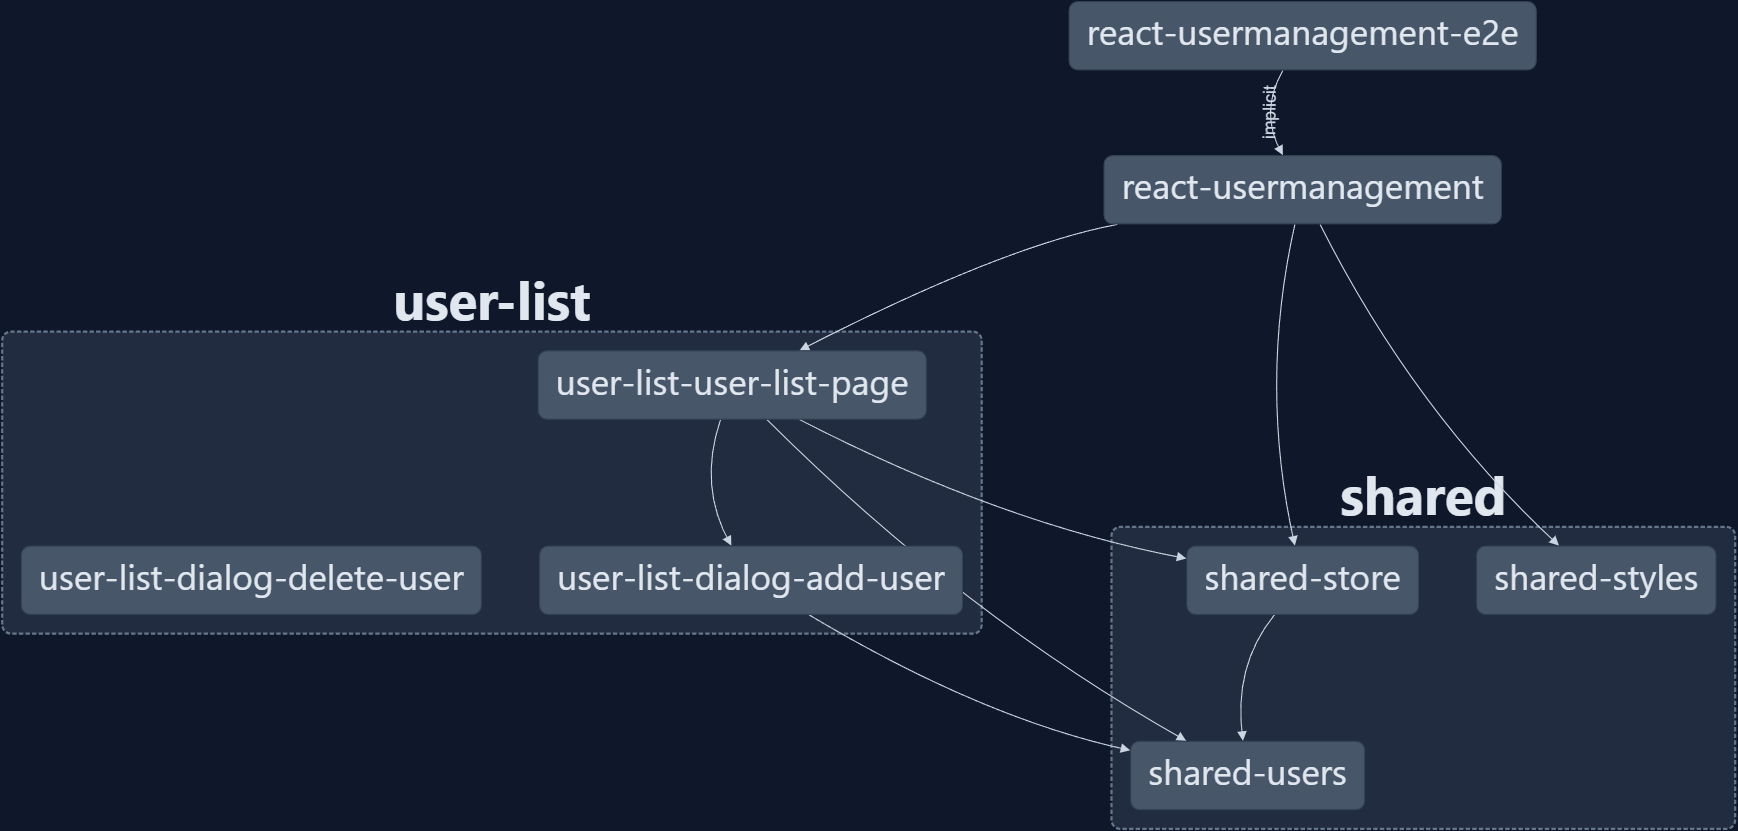
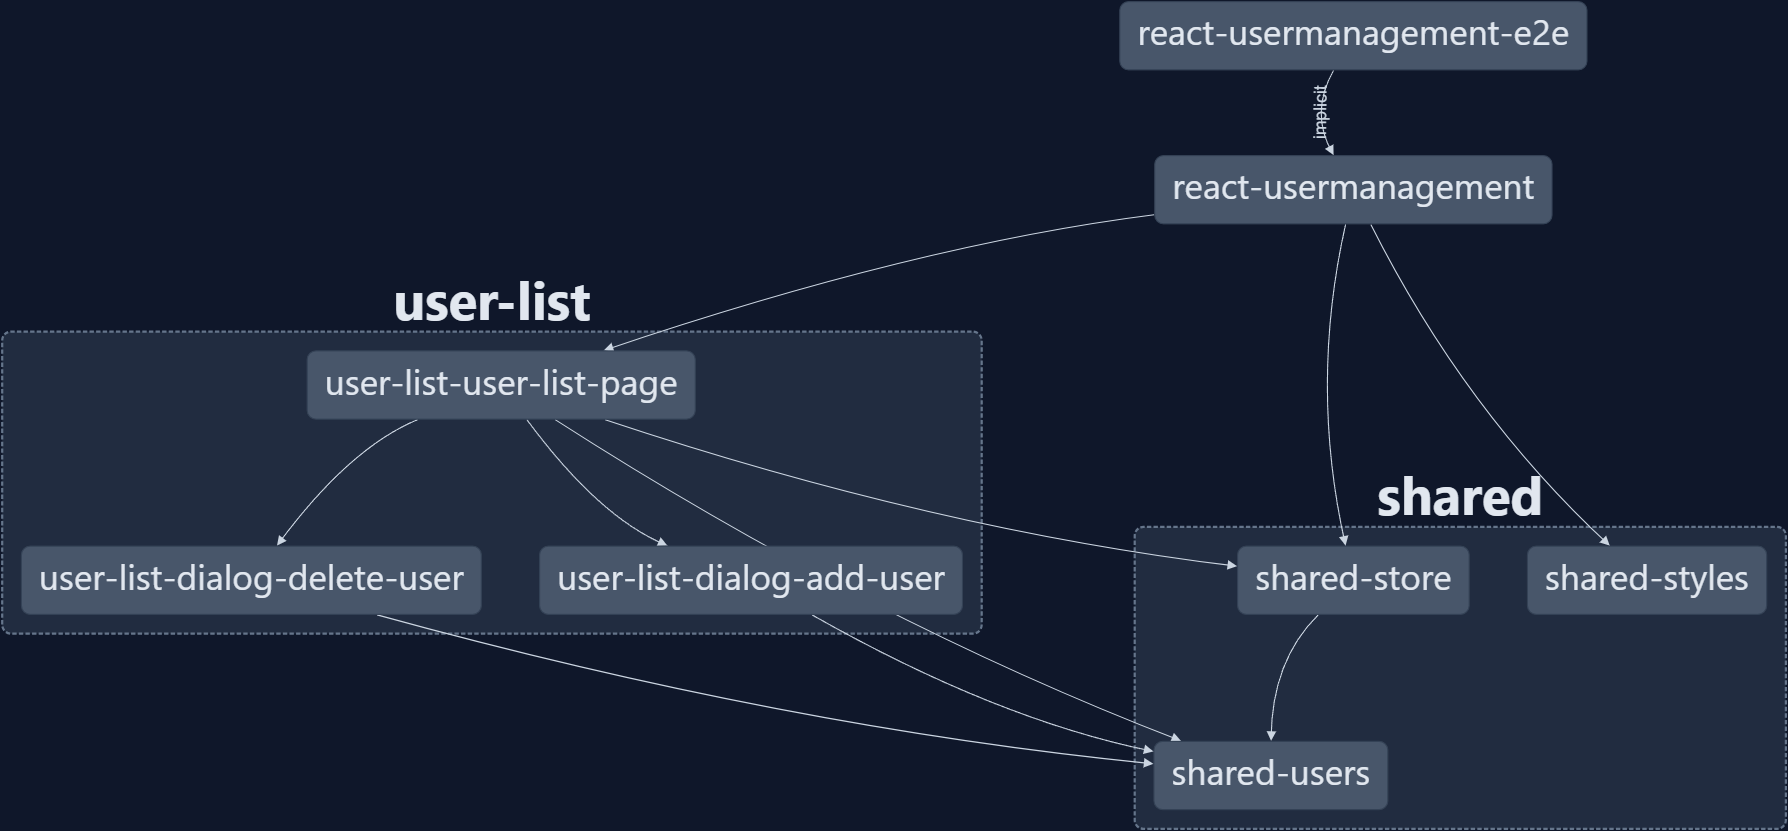
Update Delete user dialog

diff --git a/libs/user-list/user-list-page/src/lib/user-list-user-list-page.tsx b/libs/user-list/user-list-page/src/lib/user-list-user-list-page.tsx
@@ -1,4 +1,4 @@
-import { Delete, Edit, VpnKey } from '@mui/icons-material';
+import { AccountCircle, Add, Delete, Edit, VpnKey } from '@mui/icons-material';
 import {
   Box,
   Chip,
@@ -17,20 +17,16 @@ import { AppDispatch } from '@react-usermanagement/shared/store';
 import {
   UsersEntity,
   fetchUsers,
-  genId,
   newUserTemplate,
   selectAllUsers,
   usersActions,
 } from '@react-usermanagement/shared/users';
 import { UserListDialogAddUser } from '@react-usermanagement/user-list/dialog-add-user';
-import {
-  MaterialReactTable,
-  type MRT_ColumnDef,
-  type MRT_Row,
-} from 'material-react-table';
+import { MaterialReactTable, type MRT_ColumnDef } from 'material-react-table';
 import React, { useEffect, useMemo, useRef, useState } from 'react';
 import { useDispatch, useSelector } from 'react-redux';
 import styles from './user-list-user-list-page.module.scss';
+import { UserListDialogDeleteUser } from '@react-usermanagement/user-list/dialog-delete-user';
 
 // eslint-disable-next-line @typescript-eslint/no-empty-interface
 export interface UserListUserListPageProps {}
@@ -38,7 +34,11 @@ export function UserListUserListPage(props: UserListUserListPageProps) {
   const dispatch = useDispatch<AppDispatch>();
   const users = useSelector(selectAllUsers);
   const [filter, setFilter] = useState('');
-  const [createModalOpen, setCreateModalOpen] = useState(false);
+  const [addModalOpen, setAddModalOpen] = useState(false);
+  const [deleteModalOpen, setDeleteModalOpen] = useState(false);
+  const [deleteUser, setDeleteUser] = useState<UsersEntity | undefined>(
+    undefined
+  );
   const [tableData, setTableData] = useState<UsersEntity[]>([]);
   const tableRef = useRef<any>(null);
   const handleFilterChange = (event: React.ChangeEvent<HTMLInputElement>) => {
@@ -54,16 +54,26 @@ export function UserListUserListPage(props: UserListUserListPageProps) {
     setTableData(users);
   }, [users]);
 
-  const handleCreateNewRow = (values: UsersEntity) => {
-    tableData.push(values);
-    setTableData([...tableData]);
+  const genId = (): number => {
+    return users.length > 0 ? Math.max(...users.map((user) => user.id)) + 1 : 1;
   };
 
-  const handleDeleteRow = (row: MRT_Row<UsersEntity>) => {
-    if (!confirm(`Are you sure you want to delete ${row.original.firstName}`)) {
-      return;
+  const handleOpenDeleteDialog = (deleteUser: UsersEntity) => {
+    setDeleteUser(deleteUser);
+    setDeleteModalOpen(true);
+  };
+
+  const handleCloseDeleteDialog = (result: UsersEntity | undefined) => {
+    setDeleteModalOpen(false);
+    result && dispatch(usersActions.remove(result.id));
+  };
+
+  const handleCloseAddDialog = (result: UsersEntity | undefined) => {
+    setAddModalOpen(false);
+    if (result) {
+      const newUser = new newUserTemplate(genId(), result);
+      dispatch(usersActions.add(newUser));
     }
-    dispatch(usersActions.remove(row.original.id));
   };
 
   const columns = useMemo<MRT_ColumnDef<UsersEntity>[]>(
@@ -74,7 +84,8 @@ export function UserListUserListPage(props: UserListUserListPageProps) {
         id: 'username',
         size: 140,
         Cell: ({ cell }) => (
-          <span>
+          <span className={styles['user-list__user']}>
+            <AccountCircle color="action" />
             {cell.row.original.firstName} {cell.row.original.lastName}
             <br />
             <small>{cell.row.original.email}</small>
@@ -109,7 +120,6 @@ export function UserListUserListPage(props: UserListUserListPageProps) {
           <Switch
             checked={cell.row.getValue('status') === 'active' && true}
             onChange={(event, checked) => {
-              // handleStatusChange(cell.row.original, checked);
               const updatedUser: UsersEntity = {
                 ...cell.row.original,
                 status: checked ? 'active' : 'disabled',
@@ -129,8 +139,8 @@ export function UserListUserListPage(props: UserListUserListPageProps) {
       <Paper elevation={8} square>
         <div className="shell">
           <div className={styles['user-list__head']}>
-            <Fab color="primary" onClick={() => setCreateModalOpen(true)}>
-              <Icon>add</Icon>
+            <Fab color="primary" onClick={() => setAddModalOpen(true)}>
+              <Add />
             </Fab>
             <h2>Project Access</h2>
             <FormControl className={styles['user-list__search']}>
@@ -180,6 +190,7 @@ export function UserListUserListPage(props: UserListUserListPageProps) {
             muiBottomToolbarProps={{
               sx: {
                 background: 'none',
+                boxShadow: 'none',
               },
             }}
             editingMode="modal"
@@ -197,7 +208,7 @@ export function UserListUserListPage(props: UserListUserListPageProps) {
                 <Tooltip arrow placement="right" title="Delete">
                   <IconButton
                     color="error"
-                    onClick={() => handleDeleteRow(row)}
+                    onClick={() => handleOpenDeleteDialog(row.original)}
                   >
                     <Delete />
                   </IconButton>
@@ -207,9 +218,13 @@ export function UserListUserListPage(props: UserListUserListPageProps) {
             positionActionsColumn="last"
           />
           <UserListDialogAddUser
-            open={createModalOpen}
-            onClose={() => setCreateModalOpen(false)}
-            onSubmit={handleCreateNewRow}
+            open={addModalOpen}
+            onClose={(result) => handleCloseAddDialog(result)}
+          />
+          <UserListDialogDeleteUser
+            open={deleteModalOpen}
+            onClose={(result) => handleCloseDeleteDialog(result)}
+            deleteUser={deleteUser}
           />
         </div>
       </div>

diff --git a/libs/user-list/dialog-add-user/src/lib/user-list-dialog-add-user.tsx b/libs/user-list/dialog-add-user/src/lib/user-list-dialog-add-user.tsx
@@ -1,6 +1,5 @@
 import { UsersEntity } from '@react-usermanagement/shared/users';
 import { useState } from 'react';
-import styles from './user-list-dialog-add-user.module.scss';
 import {
   Dialog,
   DialogTitle,
@@ -12,28 +11,27 @@ import {
 } from '@mui/material';
 
 export interface UserListDialogAddUserProps {
-  onClose: () => void;
-  onSubmit: (values: UsersEntity) => void;
+  onClose: (newUser?: UsersEntity) => void;
   open: boolean;
 }
 
 export function UserListDialogAddUser({
   open,
   onClose,
-  onSubmit,
 }: UserListDialogAddUserProps) {
-  const [values, setValues] = useState<any>();
+  const [newUser, setNewUser] = useState<any>();
 
   const handleSubmit = () => {
-    //put your validation logic here
-    onSubmit(values);
+    onClose(newUser);
+  };
+  const handleClose = () => {
     onClose();
   };
   return (
-    <Dialog open={open}>
-      <DialogTitle textAlign="center">Create New Account</DialogTitle>
+    <Dialog open={open} onClose={handleClose}>
+      <DialogTitle textAlign="center">Add User</DialogTitle>
       <DialogContent sx={{ overflow: 'visible' }}>
-        <form onSubmit={(e) => e.preventDefault()}>
+        <form onSubmit={handleSubmit}>
           <Stack
             sx={{
               width: '100%',
@@ -46,7 +44,7 @@ export function UserListDialogAddUser({
               label={'First Name'}
               name={'firstName'}
               onChange={(e) =>
-                setValues({ ...values, [e.target.name]: e.target.value })
+                setNewUser({ ...newUser, [e.target.name]: e.target.value })
               }
             />
             <TextField
@@ -54,7 +52,7 @@ export function UserListDialogAddUser({
               label={'Last Name'}
               name={'lastName'}
               onChange={(e) =>
-                setValues({ ...values, [e.target.name]: e.target.value })
+                setNewUser({ ...newUser, [e.target.name]: e.target.value })
               }
             />
             <TextField
@@ -62,7 +60,7 @@ export function UserListDialogAddUser({
               label={'Email'}
               name={'email'}
               onChange={(e) =>
-                setValues({ ...values, [e.target.name]: e.target.value })
+                setNewUser({ ...newUser, [e.target.name]: e.target.value })
               }
             />
             <TextField
@@ -70,14 +68,14 @@ export function UserListDialogAddUser({
               label={'Role'}
               name={'role'}
               onChange={(e) =>
-                setValues({ ...values, [e.target.name]: e.target.value })
+                setNewUser({ ...newUser, [e.target.name]: e.target.value })
               }
             />
           </Stack>
         </form>
       </DialogContent>
-      <DialogActions sx={{ p: '1.25rem' }}>
-        <Button onClick={onClose}>Cancel</Button>
+      <DialogActions sx={{ p: '1.25rem', justifyContent: 'space-between' }}>
+        <Button onClick={handleClose}>Cancel</Button>
         <Button color="secondary" onClick={handleSubmit} variant="contained">
           Create New Account
         </Button>

diff --git a/libs/user-list/dialog-delete-user/src/lib/user-list-dialog-delete-user.tsx b/libs/user-list/dialog-delete-user/src/lib/user-list-dialog-delete-user.tsx
@@ -1,13 +1,59 @@
-import styles from './user-list-dialog-delete-user.module.scss';
+import {
+  Dialog,
+  DialogTitle,
+  DialogContent,
+  Stack,
+  DialogActions,
+  Button,
+  Box,
+} from '@mui/material';
+import { UsersEntity } from '@react-usermanagement/shared/users';
 
-/* eslint-disable-next-line */
-export interface UserListDialogDeleteUserProps {}
+export interface UserListDialogDeleteUserProps {
+  onClose: (deleteUser?: UsersEntity) => void;
+  open: boolean;
+  deleteUser: UsersEntity | undefined;
+}
 
-export function UserListDialogDeleteUser(props: UserListDialogDeleteUserProps) {
+export function UserListDialogDeleteUser({
+  open,
+  deleteUser,
+  onClose,
+}: UserListDialogDeleteUserProps) {
+  const handleClose = () => {
+    onClose();
+  };
+  const handleDelete = () => {
+    onClose(deleteUser);
+  };
   return (
-    <div className={styles['container']}>
-      <h1>Welcome to UserListDialogDeleteUser!</h1>
-    </div>
+    <Dialog open={open} onClose={handleClose}>
+      <DialogTitle textAlign="center">Delete User</DialogTitle>
+      <DialogContent>
+        <Stack
+          flexDirection={'row'}
+          justifyContent={'space-between'}
+          sx={{
+            width: '100%',
+            minWidth: { xs: '300px', sm: '360px', md: '400px' },
+            gap: '1.5rem',
+          }}
+        >
+          <Box>
+            {deleteUser?.firstName} {deleteUser?.lastName}
+          </Box>
+          <Box flex={'0 0 auto'} textTransform={'capitalize'}>
+            <strong>{deleteUser?.status} User</strong>
+          </Box>
+        </Stack>
+      </DialogContent>
+      <DialogActions sx={{ p: '1.25rem', justifyContent: 'space-between' }}>
+        <Button onClick={handleClose}>Cancel</Button>
+        <Button color="error" onClick={handleDelete} variant="contained">
+          Delete user
+        </Button>
+      </DialogActions>
+    </Dialog>
   );
 }
 

diff --git a/libs/user-list/user-list-page/src/lib/user-list-user-list-page.module.scss b/libs/user-list/user-list-page/src/lib/user-list-user-list-page.module.scss
@@ -13,6 +13,10 @@
   table td {
     padding-top: 20px;
     padding-bottom: 20px;
+    overflow: visible;
+  }
+  table td:first-child {
+    padding-right: 78px;
   }
   .user-list__search {
     position: absolute;
@@ -37,19 +41,31 @@
     position: relative;
   }
   .user-list__admin-chip {
+    position: absolute;
+    right: 100%;
+    margin-right: 16px;
+    top: 50%;
+    transform: translateY(-50%);
     min-width: 46px;
   }
-
   .user-list__admin-chip svg {
     margin: 0;
   }
-
   .user-list__admin-chip span {
     display: none;
   }
-
   .user-list__admin-chip + span {
-    margin-left: 20px;
     text-transform: capitalize;
+  }
+  .user-list__user {
+    position: relative;
+  }
+  .user-list__user svg {
+    position: absolute;
+    right: 100%;
+    top: 50%;
+    margin-right: 32px;
+    transform: translateY(-50%);
+    font-size: 48px;
   }
 }

diff --git a/apps/react-usermanagement/src/app/app.tsx b/apps/react-usermanagement/src/app/app.tsx
@@ -2,7 +2,6 @@ import { store } from '@react-usermanagement/shared/store';
 import { UserListUserListPage } from '@react-usermanagement/user-list/user-list-page';
 import { Provider } from 'react-redux';
 import { Route, Routes } from 'react-router-dom';
-// eslint-disable-next-line @typescript-eslint/no-unused-vars
 import styles from './app.module.scss';
 
 export function App() {

diff --git a/libs/shared/users/src/lib/users.slice.ts b/libs/shared/users/src/lib/users.slice.ts
@@ -196,9 +196,3 @@ export const selectUsersEntities = createSelector(
   getUsersState,
   selectEntities
 );
-
-export const genId = (): number => {
-  return selectAllUsers.length > 0
-    ? Math.max(...selectAllUsers.lastResult().map((user) => user.id)) + 1
-    : 1;
-};
